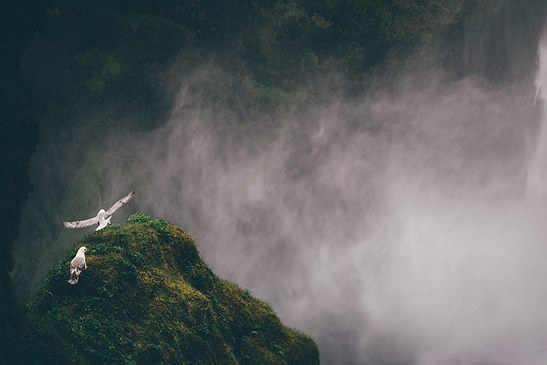
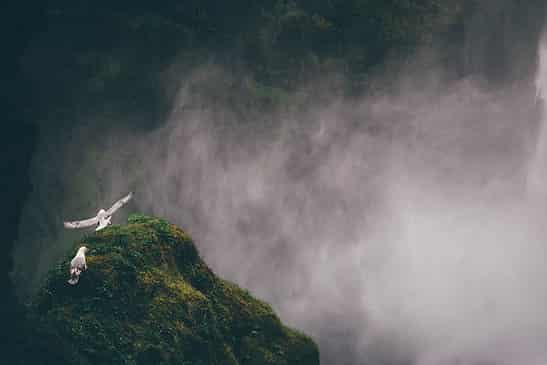
changing size of images

diff --git a/css/layout.css b/css/layout.css
@@ -550,9 +550,9 @@ a { text-decoration: none; color: white; }
 }
 
 .p6-photo1, .p6-photo2, .p6-photo3 { width: 100%; height: 220px; }
-.p6-photo1 { background-image: url('../images/page6/page6-photo1.png'); }
-.p6-photo2 { background-image: url('../images/page6/page6-photo2.png'); }
-.p6-photo3 { background-image: url('../images/page6/page6-photo3.png'); }
+.p6-photo1 { background-image: url('../images/page6/page6-photo1.jpg'); }
+.p6-photo2 { background-image: url('../images/page6/page6-photo2.jpg'); }
+.p6-photo3 { background-image: url('../images/page6/page6-photo3.jpg'); }
 
 .p6-items-content { width: 100%; height: 175px; }
 
@@ -908,10 +908,10 @@ a { text-decoration: none; color: white; }
     height: 98px;
 }
 
-.p7-photos1 { background: url('../images/page7/page7-photo1.png') center; }
-.p7-photos2 { background: url('../images/page7/page7-photo2.png') center; }
-.p7-photos3 { background: url('../images/page7/page7-photo3.png') center; }
-.p7-photos4 { background: url('../images/page7/page7-photo4.png') center; }
+.p7-photos1 { background: url('../images/page7/page7-photo1.jpg') center; }
+.p7-photos2 { background: url('../images/page7/page7-photo2.jpg') center; }
+.p7-photos3 { background: url('../images/page7/page7-photo3.jpg') center; }
+.p7-photos4 { background: url('../images/page7/page7-photo4.jpg') center; }
 
 /* ============================Font colors============================== */
 .fc-white { color: #ffffff; }
